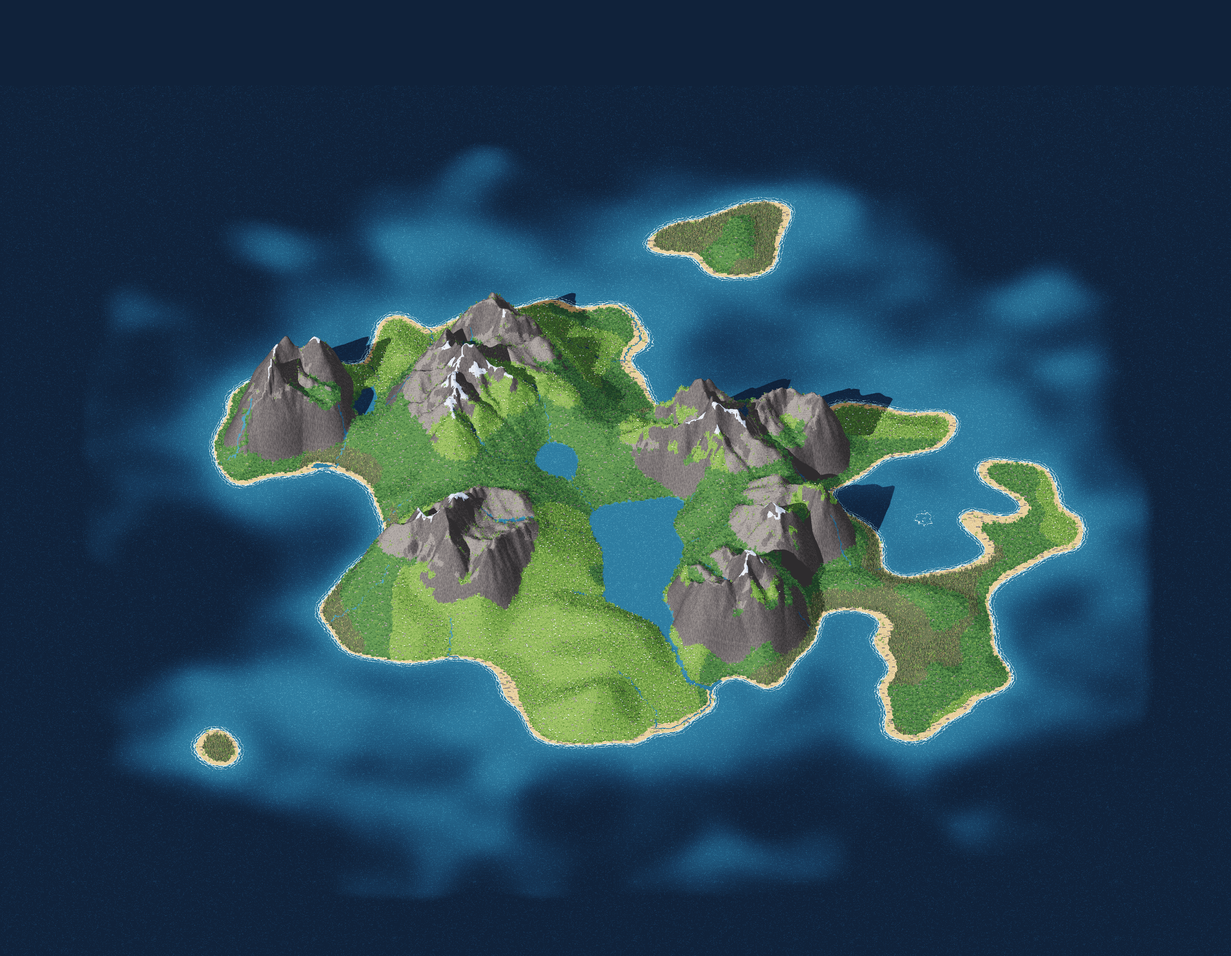
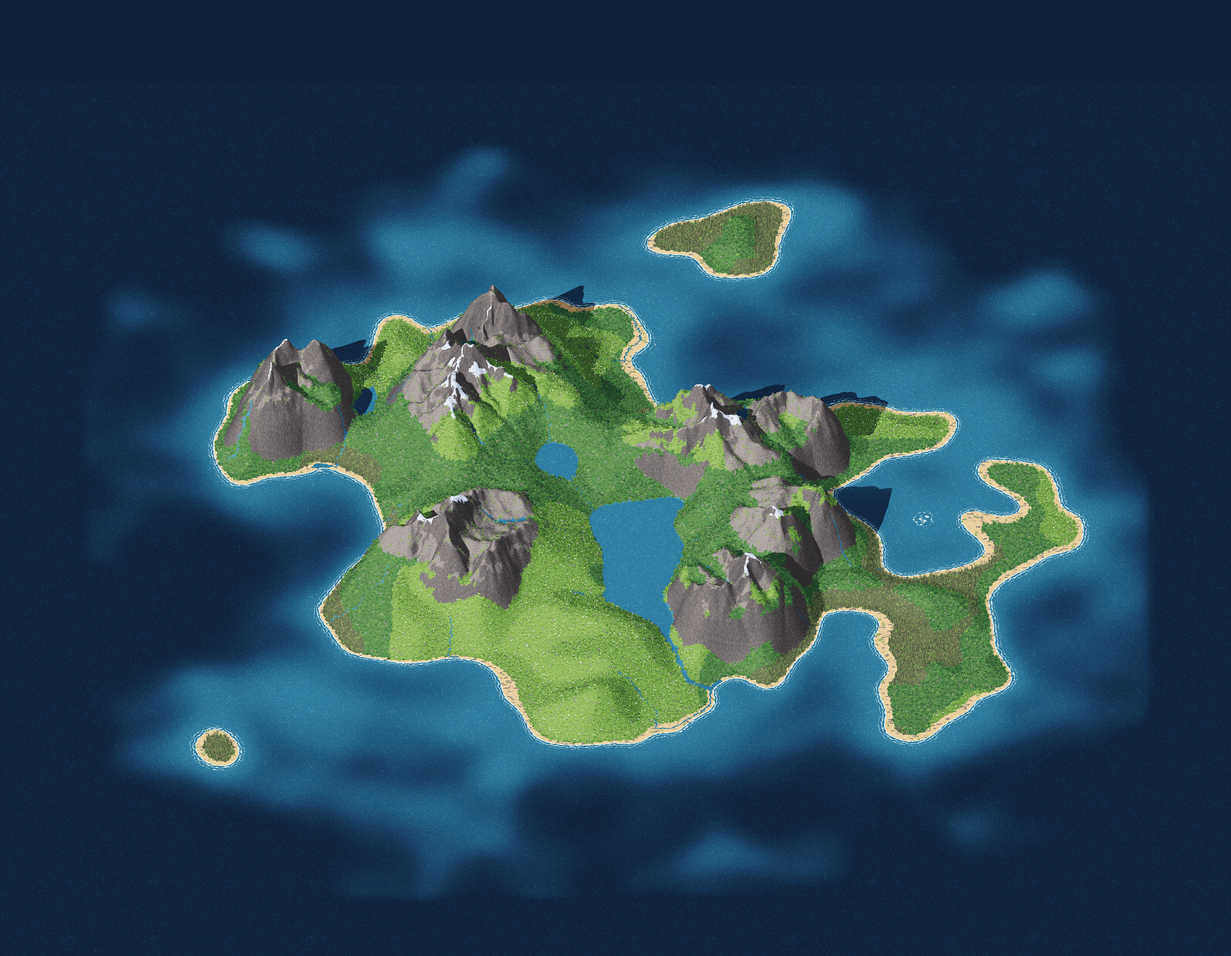
feat: rescale contender peaks into a band under the summit (#131)
Closes #115

Replaces #129, which GitHub closed when the branch was renamed.

## What changed

- New generator step `generator/contenders.gd`. It runs after the peaks
are found and before the cliffs, the start and WaysUp, so those use the
final heights. It then redoes the materials and the peaks.
- The natural highest peak stays the true summit. The first massif
placed is the tallest and lands anywhere on the island, so its place
doesn't give it away.
- Each island draws 3 to 5 contenders and a band 10 to 15% deep. Each
contender gets a random height in the band, at most 2% under the summit.
- The other peaks squeeze under the band and keep their order. This goes
further than the issue, which said "smaller peaks stay as they are".
Without it, 2 to 5 peaks per island stood in the band, sometimes above
the contenders. We settled that in the planning thread.
- Each peak's massif, the land above its key saddle, maps as `saddle +
(h - saddle) * k`. Rivers still run downhill and lakes stay flat.
Massifs nest, so the maps compose.
- `IslandData.contenders` holds the contenders' top cells.
`contenders[0]` is the summit.
- New loading step text: "Hever de høyeste toppene".
- `game/backdrop.png` and `icon.png` are rendered again for the changed
island. The icon barely changes, since the summit doesn't move.
- `SPEC.md` step 6 describes all of this.
- Updates the cells WaysUp raises in `SPEC.md` step 5 and the `ROUNDS`
[…]

Changed region(s): [[0.0, 0.0936, 1.0, 1.0]]

diff --git a/SPEC.md b/SPEC.md
@@ -93,8 +93,8 @@ Each step reads the arrays the earlier steps produced. All data lives in packed 
 2. **Moisture.** A second noise layer.
 3. **Material.** A lookup table from height and moisture to beach, grass, forest, marsh, rock or snow. A patch of snow smaller than 32 cells takes the ground of the band below, because bumps and wet spots just over the snow line lay as specks on the bare rock. A flood fill then marks the main island, the largest connected land area. Islets off its coast stay as scenery the player can see but not reach, and stats, peaks, vardes and points of interest use only the main island.
 4. **Rivers.** About 30 springs, at least 60 cells apart, lie on the main island's high ground. Each spring sends a river downhill, at each step to a random lower neighbor weighted by slope, because always taking the steepest one ran the rivers in straight lines along the grid's 8 directions. A river that runs into a pit fills it up to the lowest point on its rim and runs on from there. The filled pit stays flat in the height map as a lake. A pit below sea level of up to 500 cells that land closes off from the sea counts too, and turns into a lake on beach. Erosion leaves such pits on the flat lowland by the coast, and as sea they showed as pale pools of foam inland. Larger basins below sea level stay sea. A river that meets an earlier one joins it and ends there, so the rivers form branching networks. Pits get filled only where a river finds one, because filling the whole grid first takes seconds in GDScript. The generator keeps a mask of the lake cells, because lakes block the player and rivers don't. Rivers widen downstream with the square root of the river cells above them, from 1 cell to 5.
-5. **Features.** Find nameable things: peaks with their prominence, lakes, river forks, coves and the largest forest. Before the start is placed, the generator marks the cliffs (see Movement). Once the start is placed, it checks the way up to each peak. It searches from the peak's top and the cells beside it to the land the start reaches for the path that crosses the fewest cliff cells, and raises each such cell and its lower neighbors until no step around it is too steep. It only raises cells, never to the height of the cell above, so no top moves. It never raises a river or lake cell, so water doesn't run uphill, and it goes round cliffs on or next to a river or the sea. A mend for one peak can cut off another, so it checks all the peaks again until a pass raises nothing. Afterwards the generator redoes the materials, the peaks and the cliffs from the new heights. On seeds 0 to 9 it raises 3 to 725 cells per island. Searching from anywhere in the survey zone left the summit of seed 3638347899 walled in by cliff cells, with its only open zone cell 3 cells east of the top. A way carved all the way up made straight pathways, so the terrain itself has to leave the way open nearly everywhere.
-6. **Summit and route.** Pick the contenders and rescale them into a narrow height band, pick the true summit, place the clouds, place the landing beach with the shipwreck, and find a walkable route between beach and summit.
+5. **Features.** Find nameable things: peaks with their prominence, lakes, river forks, coves and the largest forest. Before the start is placed, the generator marks the cliffs (see Movement). Once the start is placed, it checks the way up to each peak. It searches from the peak's top and the cells beside it to the land the start reaches for the path that crosses the fewest cliff cells, and raises each such cell and its lower neighbors until no step around it is too steep. It only raises cells, never to the height of the cell above, so no top moves. It never raises a river or lake cell, so water doesn't run uphill, and it goes round cliffs on or next to a river or the sea. A mend for one peak can cut off another, so it checks all the peaks again until a pass raises nothing. Afterwards the generator redoes the materials, the peaks and the cliffs from the new heights. On seeds 0 to 9 it raises 136 to 1,325 cells per island, the most on seed 1, after the contender step (generator step 6) rescales the massifs. Without that step it raises 8 to 879, the most on seed 9. Searching from anywhere in the survey zone left the summit of seed 3638347899 walled in by cliff cells, with its only open zone cell 3 cells east of the top. A way carved all the way up made straight pathways, so the terrain itself has to leave the way open nearly everywhere.
+6. **Summit and route.** The contenders run right after the peaks are found and before the cliffs, the start and WaysUp, so those work from the final heights (`generator/contenders.gd`). The natural highest peak stays the true summit. The first massif placed is the tallest, and it lands anywhere on the island, so the summit's place doesn't give it away. Each island draws 3 to 5 contenders and a band 10 to 15% deep under the summit, and each contender gets a random height in that band, at most 2% under the summit. The other peaks squeeze linearly between half the summit's height and 3% under the band, keeping their order. A peak's massif is the land above its key saddle around its top, and it maps as saddle + (h - saddle) × k, so rivers still run downhill and lakes stay flat. Massifs nest, so each cell takes the map of the innermost massif it lies in, composed with the maps of the massifs around it. Lowering a top costs it prominence, so a top keeps 23% of the summit's height over its saddle, 3% more than a peak needs, so it stays a peak through WaysUp. Peaks whose saddles stand too high to go under the band are picked as contenders first, and two contenders never share a massif. Before the other peaks were lowered, 2 to 5 of them stood in the band on seeds 0 to 9, sometimes above the contenders. Now the only peaks left in the band are tops on a contender's own massif, which a raised massif can lift past the 20% prominence a peak needs, or which stand on too high a saddle to drop. From below they read as part of that mountain. On seeds 0 to 9 the step takes 0.6 to 1.1 seconds, and the cliff cells change by -31 to +22% per island with no steady rise. Then place the clouds, place the landing beach with the shipwreck, and find a walkable route between beach and summit.
 7. **Vardes.** Place the old vardes along the route. Ruins and caves are for later (#125).
 8. **Notes.** Write each varde's note from the features between it and the next varde.
 
